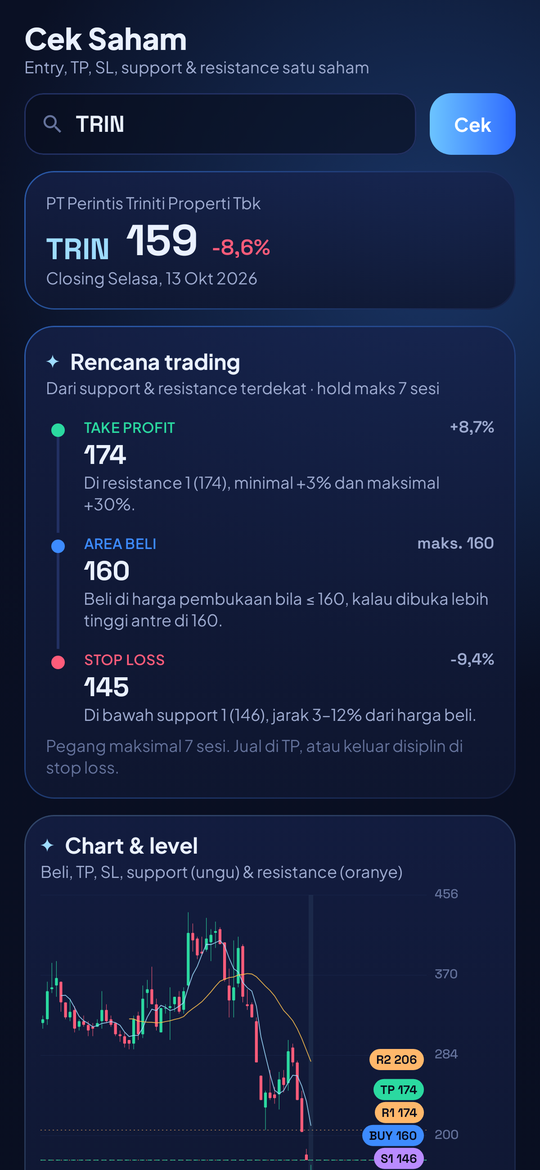
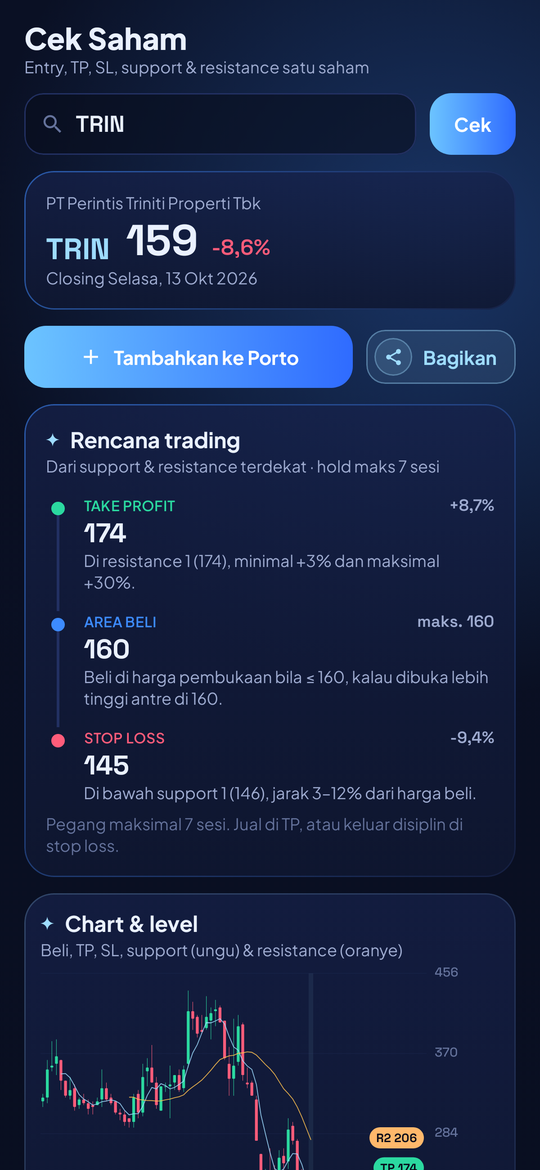
v2.2: laporan dengan HOLD, Cek Saham tombol di atas, notifikasi audit senyap, rekap harian
Claude-Session: https://claude.ai/code/session_01PuKLHyoYSW1sPiRyMbgmbw

diff --git a/app/src/main/java/com/lumisignal/idx/service/Monitor.kt b/app/src/main/java/com/lumisignal/idx/service/Monitor.kt
@@ -60,7 +60,43 @@ object Monitor {
     private val runLock = kotlinx.coroutines.sync.Mutex()
 
     /** One pass at a time (app, worker, alarm and the audit service can overlap). */
-    suspend fun runOnce(ctx: Context, forceDaily: Boolean = false): Int = runLock.withLock { runPass(ctx, forceDaily) }
+    suspend fun runOnce(ctx: Context, forceDaily: Boolean = false): Int = runLock.withLock {
+        val n = runPass(ctx, forceDaily)
+        dailyRecap(ctx)
+        n
+    }
+
+    /**
+     * Once per trading day after the close (from 16:20 WIB, after the final prices are in): holds, TP,
+     * SL and cumulative P/L of the strategy history and of the portfolio.
+     */
+    private fun dailyRecap(ctx: Context) {
+        try {
+            val now = Market.now()
+            val today = Market.today()
+            if (!Market.isWeekday(now.toLocalDate()) || now.toLocalTime() < java.time.LocalTime.of(16, 20)) return
+            if (Graph.cache.lastRecapDay == today) return
+            val items = Graph.history.items.value
+            // Only on a day the market traded (holidays have no bar for today).
+            val traded = RadarRepo.day.value?.date == today || items.any { s -> s.trackBars.any { it.date == today } }
+            if (!traded) return
+            // Final prices of today must be in (the post-close fetch has run) unless nothing is open.
+            if (items.any { it.isOpen } && Graph.cache.lastDailyKey != "$today-c") return
+            Graph.cache.lastRecapDay = today
+            val tier = com.lumisignal.idx.UiConfig.FIXED_TIER
+            val strat = items.filter { it.source == com.lumisignal.idx.data.SOURCE_STRATEGY && it.radar?.tier == tier && it.radar?.combined == true }
+            val porto = items.filter { it.source == com.lumisignal.idx.data.SOURCE_PORTO }
+            fun line(name: String, list: List<Signal>): String? {
+                if (list.isEmpty()) return null
+                val st = com.lumisignal.idx.ui.components.winStats(list)
+                return "$name: ${st.holding} hold · ${st.tp} TP · ${st.sl} SL · akumulasi P/L ${st.totalPnl?.let { com.lumisignal.idx.engine.Fmt.pct(it, decimals = 2) } ?: "–"}"
+            }
+            val lines = listOfNotNull(line("Riwayat Strategi", strat), line("Porto", porto))
+            if (lines.isEmpty()) return
+            Notifier.dailyRecap(ctx, "📊 Rekap pasar ${Market.prettyDate(today)}", lines.joinToString("\n"))
+        } catch (e: Exception) {
+        }
+    }
 
     private suspend fun runPass(ctx: Context, forceDaily: Boolean): Int {
         checkRadar(ctx)
@@ -138,9 +174,9 @@ object Monitor {
             tracked = tracked.copy(lastUpdate = System.currentTimeMillis())
             if (tracked.status != sig.status || tracked.exitPrice != sig.exitPrice) {
                 changed++
-                // Portfolio positions notify every change; screening results when bought (entry, TP & SL announced) and at TP or SL.
+                // Notify only when bought (entry, TP & SL announced) and at TP or SL, for history and portfolio alike.
                 if (tracked.status != sig.status &&
-                    (sig.source == com.lumisignal.idx.data.SOURCE_PORTO || tracked.status == com.lumisignal.idx.data.SignalStatus.TP ||
+                    (tracked.status == com.lumisignal.idx.data.SignalStatus.TP ||
                         tracked.status == com.lumisignal.idx.data.SignalStatus.SL || tracked.status == com.lumisignal.idx.data.SignalStatus.ACTIVE)
                 ) Notifier.statusChanged(ctx, tracked)
             }

diff --git a/app/src/main/java/com/lumisignal/idx/ui/screens/ManualScreen.kt b/app/src/main/java/com/lumisignal/idx/ui/screens/ManualScreen.kt
@@ -242,6 +242,21 @@ private fun StockAnalysis(symbol: String, onOpenPick: OpenPick, onOpenSignal: (S
         }
         Spacer(Modifier.height(12.dp))
 
+        // ---- actions first: add to the portfolio and share the analysis
+        val shareCtx = androidx.compose.ui.platform.LocalContext.current
+        Row(verticalAlignment = Alignment.CenterVertically, horizontalArrangement = Arrangement.spacedBy(10.dp)) {
+            if (existing == null) {
+                GradientButton("Tambahkan ke Porto", { dialog = true }, Modifier.weight(1f), icon = Icons.Filled.Add)
+            } else {
+                GhostButton("Sudah di Porto", { onOpenSignal(existing.id) }, Modifier.weight(1f), icon = Icons.Filled.CheckCircle, color = Lumi.Green)
+            }
+            ShareReportButton("Bagikan", {
+                val label = if (match != null && day != null) "TOP 5 · " + day.jenisLabel(match.jenis).uppercase() else null
+                com.lumisignal.idx.share.ShareCards.shareAnalysis(shareCtx, symbol, r.name.ifBlank { info?.name ?: "" }, r.refDate, bars, plan, sr, label)
+            })
+        }
+        Spacer(Modifier.height(12.dp))
+
         // ---- radar signal banner
         if (match != null && day != null) {
             val meta = day.strategy(match.sid)
@@ -286,30 +301,6 @@ private fun StockAnalysis(symbol: String, onOpenPick: OpenPick, onOpenSignal: (S
             SectionHeader("Support & resistance", subtitle = "Area harga tempat saham biasanya memantul")
             Spacer(Modifier.height(8.dp))
             LevelsPanel(sr, t.close)
-        }
-        Spacer(Modifier.height(12.dp))
-
-        // ---- share the analysis as a picture
-        val shareCtx = androidx.compose.ui.platform.LocalContext.current
-        Row(verticalAlignment = Alignment.CenterVertically) {
-            Text("Bagikan hasil analisa ini sebagai gambar", style = MaterialTheme.typography.bodySmall, color = Lumi.TextMuted, modifier = Modifier.weight(1f))
-            ShareReportButton("Bagikan", {
-                val label = if (match != null && day != null) "TOP 5 · " + day.jenisLabel(match.jenis).uppercase() else null
-                com.lumisignal.idx.share.ShareCards.shareAnalysis(shareCtx, symbol, r.name.ifBlank { info?.name ?: "" }, r.refDate, bars, plan, sr, label)
-            })
-        }
-        Spacer(Modifier.height(12.dp))
-
-        // ---- porto
-        if (existing == null) {
-            GradientButton("Tambahkan ke Porto", { dialog = true }, Modifier.fillMaxWidth(), icon = Icons.Filled.Add)
-            Spacer(Modifier.height(6.dp))
-            Text(
-                "Saham di Porto dipantau otomatis: kapan terbeli, kena TP, kena SL, atau habis masa hold — lengkap dengan notifikasi.",
-                style = MaterialTheme.typography.bodySmall, color = Lumi.TextMuted,
-            )
-        } else {
-            GhostButton("Sudah di Porto · lihat posisi", { onOpenSignal(existing.id) }, Modifier.fillMaxWidth(), icon = Icons.Filled.CheckCircle, color = Lumi.Green)
         }
         Spacer(Modifier.height(12.dp))
 

diff --git a/app/src/main/java/com/lumisignal/idx/share/ShareCards.kt b/app/src/main/java/com/lumisignal/idx/share/ShareCards.kt
@@ -488,11 +488,12 @@ object ShareCards {
                 // Summary tiles.
                 val closed = r.rows.filter { it.status == "TP" || it.status == "SL" || it.status == "Waktu" }
                 val acc = closed.mapNotNull { it.pnl }.takeIf { it.isNotEmpty() }?.sum()
-                val gap = 18f
-                val tw = (W - 2 * PAD - 3 * gap) / 4
+                val gap = 14f
+                val tw = (W - 2 * PAD - 4 * gap) / 5
                 val th = 150f
                 val tiles = listOf(
                     Triple("TRANSAKSI", "${r.rows.size}", SKY),
+                    Triple("HOLD", "${r.rows.count { it.status == "Hold" }}", BLUE),
                     Triple("KENA TP", "${r.rows.count { it.status == "TP" }}", GREEN),
                     Triple("KENA SL", "${r.rows.count { it.status == "SL" }}", RED),
                     Triple("AKUMULASI P/L", acc?.let { Fmt.pct(it, decimals = 2) } ?: "–", if ((acc ?: 0.0) >= 0) GREEN else RED),
@@ -501,16 +502,15 @@ object ShareCards {
                     val left = PAD + i * (tw + gap)
                     val rect = RectF(left, y, left + tw, y + th)
                     pen.round(rect, 26f, alpha(color, 0.12f), alpha(color, 0.5f))
-                    pen.text(label, left + 22f, y + 24f, pen.paint(22f, color, bold = true))
+                    pen.text(label, left + 18f, y + 24f, pen.paint(if (label.length > 10) 17f else 21f, color, bold = true))
                     var size = 54f
                     var vp = pen.paint(size, TEXT, bold = true, num = true)
-                    while (vp.measureText(value) > tw - 40f && size > 24f) { size -= 2f; vp = pen.paint(size, TEXT, bold = true, num = true) }
+                    while (vp.measureText(value) > tw - 32f && size > 24f) { size -= 2f; vp = pen.paint(size, TEXT, bold = true, num = true) }
                     pen.text(value, left + 22f, y + 64f, vp)
                 }
                 y += th + 16f
                 val extra = listOfNotNull(
                     r.rows.count { it.status == "Waktu" }.takeIf { it > 0 }?.let { "$it keluar karena waktu habis" },
-                    r.rows.count { it.status == "Hold" }.takeIf { it > 0 }?.let { "$it masih dipegang" },
                     r.rows.count { it.status == "Menunggu" }.takeIf { it > 0 }?.let { "$it menunggu entry" },
                     r.rows.count { it.status == "Batal" }.takeIf { it > 0 }?.let { "$it batal (tidak terbeli)" },
                 )

diff --git a/app/src/main/java/com/lumisignal/idx/service/Notifier.kt b/app/src/main/java/com/lumisignal/idx/service/Notifier.kt
@@ -21,7 +21,8 @@ import com.lumisignal.idx.engine.Tracker
 object Notifier {
     const val CH_SIGNALS = "lumi_signals"
     const val CH_SCAN = "lumi_scan"
-    const val CH_AUDIT = "lumi_audit"
+    /** Minimum importance: no sound, no status-bar icon, folded at the bottom of the shade. */
+    const val CH_AUDIT = "lumi_audit_min"
     const val SCAN_NOTIF_ID = 4101
     const val EXTRA_OPEN_SIGNAL = "open_signal"
     const val EXTRA_OPEN_SCAN = "open_scan"
@@ -35,11 +36,14 @@ object Notifier {
             },
         )
         nm.createNotificationChannel(
-            NotificationChannel(CH_AUDIT, "Audit harga berjalan", NotificationManager.IMPORTANCE_LOW).apply {
-                description = "Tanda bahwa harga dicek tiap 1 menit selama jam bursa"
+            NotificationChannel(CH_AUDIT, "Audit harga (latar belakang)", NotificationManager.IMPORTANCE_MIN).apply {
+                description = "Wajib dari Android untuk audit tiap 1 menit. Tidak berbunyi dan tidak tampil di status bar; boleh dimatikan, audit tetap jalan."
                 setShowBadge(false)
+                setSound(null, null)
+                enableVibration(false)
             },
         )
+        nm.deleteNotificationChannel("lumi_audit")
         // The old foreground "screening" channel is gone: screening now runs on the server.
         nm.deleteNotificationChannel(CH_SCAN)
     }
@@ -103,6 +107,24 @@ object Notifier {
             .build()
         try {
             NotificationManagerCompat.from(ctx).notify(sig.id.hashCode(), n)
+        } catch (e: SecurityException) {
+        }
+    }
+
+    /** After the close: holds, TP, SL and cumulative P/L of the strategy history and the portfolio. */
+    fun dailyRecap(ctx: Context, title: String, text: String) {
+        if (!canNotify(ctx)) return
+        val n = NotificationCompat.Builder(ctx, CH_SIGNALS)
+            .setSmallIcon(R.drawable.ic_stat_lumi)
+            .setContentTitle(title)
+            .setContentText(text.lineSequence().firstOrNull() ?: text)
+            .setStyle(NotificationCompat.BigTextStyle().bigText(text))
+            .setColor(0xFF3D8BFF.toInt())
+            .setAutoCancel(true)
+            .setContentIntent(openIntent(ctx, EXTRA_OPEN_SCAN, "1", 5))
+            .build()
+        try {
+            NotificationManagerCompat.from(ctx).notify(SCAN_NOTIF_ID + 2, n)
         } catch (e: SecurityException) {
         }
     }

diff --git a/app/src/main/java/com/lumisignal/idx/data/Stores.kt b/app/src/main/java/com/lumisignal/idx/data/Stores.kt
@@ -96,6 +96,11 @@ class CacheStore(private val context: Context) {
         get() = prefs.getString("last_token_refresh", "") ?: ""
         set(v) = prefs.edit().putString("last_token_refresh", v).apply()
 
+    /** Day the after-close recap was sent. */
+    var lastRecapDay: String
+        get() = prefs.getString("last_recap", "") ?: ""
+        set(v) = prefs.edit().putString("last_recap", v).apply()
+
     var loginNotifiedDay: String
         get() = prefs.getString("login_notified", "") ?: ""
         set(v) = prefs.edit().putString("login_notified", v).apply()

diff --git a/app/src/main/java/com/lumisignal/idx/service/AuditService.kt b/app/src/main/java/com/lumisignal/idx/service/AuditService.kt
@@ -91,6 +91,8 @@ class AuditService : Service() {
             .setOnlyAlertOnce(true)
             .setSilent(true)
             .setColor(0xFF3D8BFF.toInt())
+            .setPriority(NotificationCompat.PRIORITY_MIN)
+            .setShowWhen(false)
             .setContentIntent(open)
             .setForegroundServiceBehavior(NotificationCompat.FOREGROUND_SERVICE_IMMEDIATE)
             .build()

diff --git a/release-notes/v2.2.md b/release-notes/v2.2.md
@@ -18,15 +18,19 @@
 - **Beranda jadi daftar saham pantauan**: entry, TP, dan SL tidak lagi ditampilkan di Beranda. Angka itu baru muncul di **Riwayat Strategi begitu saham benar-benar terbeli**, jadi harga di Beranda dan Riwayat tidak pernah berbeda lagi
 - **Notifikasi saat terbeli**: "✅ SMGA terbeli di 82", lengkap dengan **entry, TP, dan SL**. Notifikasi TP dan SL juga menyertakan entry
 - **Notifikasi saham pantauan tepat pukul 17.00 WIB**: mesin radar di server kini berjalan tepat setelah bursa tutup, tidak lagi tertunda sampai malam
-- **Audit harga tiap 1 menit selama jam bursa, juga saat aplikasi ditutup**, ditandai notifikasi kecil "Audit harga berjalan". Audit mulai otomatis pukul 08.50 WIB dan berhenti sendiri setelah bursa tutup
+- **Audit harga tiap 1 menit selama jam bursa, juga saat aplikasi ditutup**, tanpa bunyi dan tanpa ikon di status bar. Audit mulai otomatis pukul 08.50 WIB dan berhenti sendiri setelah bursa tutup
+- Notifikasi hanya untuk hal penting: saham pantauan baru (17.00), saham terbeli (entry, TP & SL), kena TP, dan kena SL
+- **Rekap harian setelah pasar tutup**: berapa saham hold, kena TP, kena SL, dan akumulasi P/L untuk Riwayat Strategi dan Porto
+- Cek Saham: tombol **Tambahkan ke Porto** dan **Bagikan** kini ada di atas
 - **Bagikan hasil Cek Saham** sebagai gambar: harga, area beli, TP, SL, 2 support & 2 resistance, dan chart 60 sesi
-- Laporan **Riwayat** dan **Backtest** yang dibagikan kini punya kolom **ENTRY**
+- Laporan **Riwayat** dan **Backtest** yang dibagikan kini punya kolom **ENTRY** dan kotak **HOLD** (berapa saham masih dipegang)
 - Gambar saham pantauan yang dibagikan kini fokus pada tanggal beli, kode saham, dan alasan masuk radar
 - Halaman izin menambahkan **Alarm tepat waktu** (Android 12 ke atas) supaya notifikasi 17.00 dan audit 08.50 tepat waktu
 
 ### 🐞 Perbaikan
 - Harga entry, TP, dan SL di Beranda tidak lagi berbeda dengan yang tercatat di Riwayat
-- Notifikasi saham pantauan tidak lagi baru muncul sekitar pukul 22.00
+- Notifikasi saham pantauan tidak lagi baru muncul sekitar pukul 22.00: server kini punya "jam" sendiri dan tidak bergantung pada jadwal GitHub yang sering terlambat
+- Sinyal untuk sesi berikutnya tidak lagi tertinggal di tanggal hari ini pada malam hari
 
 > 💡 Pasang di atas versi lama. Login, riwayat, dan porto tetap aman. Setelah update, izinkan **Alarm tepat waktu** kalau diminta.
 
@@ -40,15 +44,19 @@
 - **Home is now a watchlist**: entry, TP, and SL are no longer shown on Home. They appear in **Strategy History once the stock is actually bought**, so Home and History never show different prices again
 - **Notification when bought**: "✅ SMGA bought at 82", with **entry, TP, and SL**. TP and SL notifications include the entry too
 - **Watchlist notification right at 17:00 WIB**: the server radar now runs right after the close instead of being delayed until the evening
-- **Price audit every minute during market hours, even with the app closed**, shown by a small "price audit running" notification. It starts at 08:50 WIB and stops by itself after the close
+- **Price audit every minute during market hours, even with the app closed**, silent and without a status-bar icon. It starts at 08:50 WIB and stops by itself after the close
+- Notifications only for what matters: new watchlist (17:00), bought (entry, TP & SL), TP hit, and SL hit
+- **Daily recap after the close**: holds, TP, SL, and cumulative P/L for Strategy History and Portfolio
+- Stock check: **Add to Portfolio** and **Share** are now at the top
 - **Share a stock check** as an image: price, buy area, TP, SL, 2 supports & 2 resistances, and a 60-session chart
-- Shared **History** and **Backtest** reports now have an **ENTRY** column
+- Shared **History** and **Backtest** reports now have an **ENTRY** column and a **HOLD** tile (stocks still held)
 - Shared watchlist images now focus on the buy date, ticker, and why the stock made the radar
 - The permission screen adds **On-time alarms** (Android 12+) so the 17:00 notification and the 08:50 audit start on time
 
 ### 🐞 Fixes
 - Entry, TP, and SL on Home no longer differ from what History records
-- The watchlist notification no longer arrives around 22:00
+- The watchlist notification no longer arrives around 22:00: the server now keeps its own clock instead of relying on GitHub’s often-late schedule
+- Signals for the next session no longer stay on today’s date in the evening
 
 > 💡 Install over the old version. Your login, history, and portfolio stay. After updating, allow **On-time alarms** if asked.
 

diff --git a/CHANGELOG.md b/CHANGELOG.md
@@ -22,15 +22,19 @@
 - **Beranda jadi daftar saham pantauan**: entry, TP, dan SL tidak lagi ditampilkan di Beranda. Angka itu baru muncul di **Riwayat Strategi begitu saham benar-benar terbeli**, jadi harga di Beranda dan Riwayat tidak pernah berbeda lagi
 - **Notifikasi saat terbeli**: "✅ SMGA terbeli di 82", lengkap dengan **entry, TP, dan SL**. Notifikasi TP dan SL juga menyertakan entry
 - **Notifikasi saham pantauan tepat pukul 17.00 WIB**: mesin radar di server kini berjalan tepat setelah bursa tutup, tidak lagi tertunda sampai malam
-- **Audit harga tiap 1 menit selama jam bursa, juga saat aplikasi ditutup**, ditandai notifikasi kecil "Audit harga berjalan". Audit mulai otomatis pukul 08.50 WIB dan berhenti sendiri setelah bursa tutup
+- **Audit harga tiap 1 menit selama jam bursa, juga saat aplikasi ditutup**, tanpa bunyi dan tanpa ikon di status bar. Audit mulai otomatis pukul 08.50 WIB dan berhenti sendiri setelah bursa tutup
+- Notifikasi hanya untuk hal penting: saham pantauan baru (17.00), saham terbeli (entry, TP & SL), kena TP, dan kena SL
+- **Rekap harian setelah pasar tutup**: berapa saham hold, kena TP, kena SL, dan akumulasi P/L untuk Riwayat Strategi dan Porto
+- Cek Saham: tombol **Tambahkan ke Porto** dan **Bagikan** kini ada di atas
 - **Bagikan hasil Cek Saham** sebagai gambar: harga, area beli, TP, SL, 2 support & 2 resistance, dan chart 60 sesi
-- Laporan **Riwayat** dan **Backtest** yang dibagikan kini punya kolom **ENTRY**
+- Laporan **Riwayat** dan **Backtest** yang dibagikan kini punya kolom **ENTRY** dan kotak **HOLD** (berapa saham masih dipegang)
 - Gambar saham pantauan yang dibagikan kini fokus pada tanggal beli, kode saham, dan alasan masuk radar
 - Halaman izin menambahkan **Alarm tepat waktu** (Android 12 ke atas) supaya notifikasi 17.00 dan audit 08.50 tepat waktu
 
 ### 🐞 Perbaikan
 - Harga entry, TP, dan SL di Beranda tidak lagi berbeda dengan yang tercatat di Riwayat
-- Notifikasi saham pantauan tidak lagi baru muncul sekitar pukul 22.00
+- Notifikasi saham pantauan tidak lagi baru muncul sekitar pukul 22.00: server kini punya "jam" sendiri dan tidak bergantung pada jadwal GitHub yang sering terlambat
+- Sinyal untuk sesi berikutnya tidak lagi tertinggal di tanggal hari ini pada malam hari
 
 </details>
 
@@ -42,15 +46,19 @@
 - **Home is now a watchlist**: entry, TP, and SL are no longer shown on Home. They appear in **Strategy History once the stock is actually bought**, so Home and History never show different prices again
 - **Notification when bought**: "✅ SMGA bought at 82", with **entry, TP, and SL**. TP and SL notifications include the entry too
 - **Watchlist notification right at 17:00 WIB**: the server radar now runs right after the close instead of being delayed until the evening
-- **Price audit every minute during market hours, even with the app closed**, shown by a small "price audit running" notification. It starts at 08:50 WIB and stops by itself after the close
+- **Price audit every minute during market hours, even with the app closed**, silent and without a status-bar icon. It starts at 08:50 WIB and stops by itself after the close
+- Notifications only for what matters: new watchlist (17:00), bought (entry, TP & SL), TP hit, and SL hit
+- **Daily recap after the close**: holds, TP, SL, and cumulative P/L for Strategy History and Portfolio
+- Stock check: **Add to Portfolio** and **Share** are now at the top
 - **Share a stock check** as an image: price, buy area, TP, SL, 2 supports & 2 resistances, and a 60-session chart
-- Shared **History** and **Backtest** reports now have an **ENTRY** column
+- Shared **History** and **Backtest** reports now have an **ENTRY** column and a **HOLD** tile (stocks still held)
 - Shared watchlist images now focus on the buy date, ticker, and why the stock made the radar
 - The permission screen adds **On-time alarms** (Android 12+) so the 17:00 notification and the 08:50 audit start on time
 
 ### 🐞 Fixes
 - Entry, TP, and SL on Home no longer differ from what History records
-- The watchlist notification no longer arrives around 22:00
+- The watchlist notification no longer arrives around 22:00: the server now keeps its own clock instead of relying on GitHub’s often-late schedule
+- Signals for the next session no longer stay on today’s date in the evening
 
 </details>
 

diff --git a/README.md b/README.md
@@ -78,8 +78,9 @@
 
 ### 🔔 Otomatis setiap hari bursa
 - Pukul **17.00 WIB** aplikasi mengambil saham pantauan terbaru, **langsung memasukkannya ke Riwayat Strategi**, lalu mengirim **notifikasi**
-- Harga diaudit dengan high & low harian asli **tiap 1 menit selama jam bursa, juga saat aplikasi ditutup** (ada notifikasi kecil "Audit harga berjalan")
+- Harga diaudit dengan high & low harian asli **tiap 1 menit selama jam bursa, juga saat aplikasi ditutup** (tanpa bunyi dan tanpa ikon di status bar)
 - Notifikasi **"✅ terbeli di …"** lengkap dengan **entry, TP, dan SL**, lalu notifikasi lagi saat kena **TP atau SL**
+- **Rekap setiap sore** setelah pasar tutup: berapa saham hold, kena TP, kena SL, dan akumulasi P/L
 - **Token Stockbit diperbarui otomatis setiap hari**, jadi tidak perlu sering login ulang
 
 ### 📜 Riwayat

diff --git a/README.en.md b/README.en.md
@@ -80,8 +80,9 @@
 
 ### 🔔 Automatic every trading day
 - At **17:00 WIB** the app fetches the new watchlist, **adds it to Strategy History**, and sends a **notification**
-- Prices are audited with real daily highs & lows **every minute during market hours, even with the app closed** (a small "price audit running" notification shows it)
+- Prices are audited with real daily highs & lows **every minute during market hours, even with the app closed** (silent, without a status-bar icon)
 - A **"✅ bought at …"** notification with **entry, TP, and SL**, then another one at **TP or SL**
+- **A recap every afternoon** after the close: holds, TP, SL, and cumulative P/L
 - **The Stockbit token is renewed automatically every day**
 
 ### 📜 History
